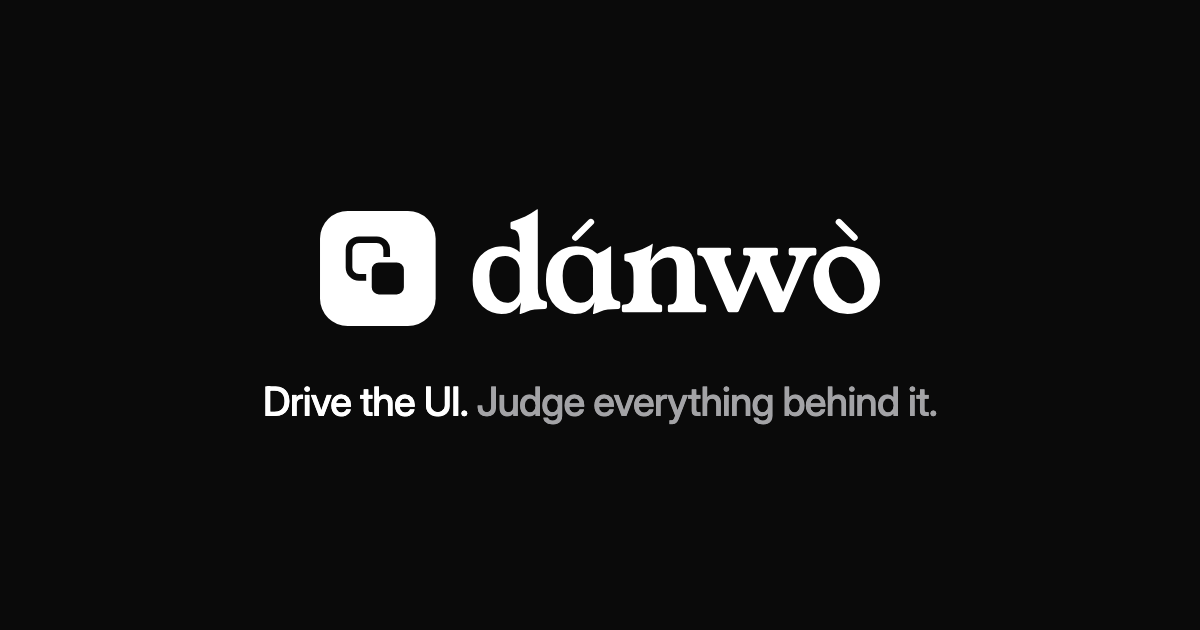
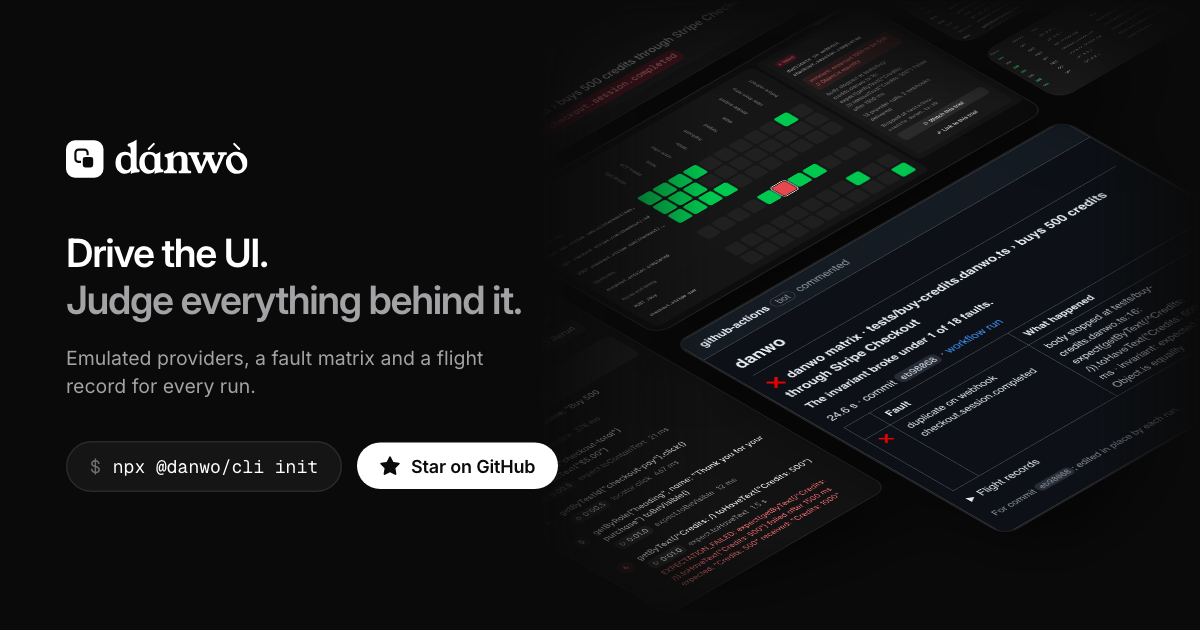
feat(brand): social cards from the README hero, with a Star on GitHub button
The hero page gains a card mode: the website's og.png (1200x630) and the
repository's social preview, github-social.png (1280x640), drawn from the
same tiles with a "Star on GitHub" button beside the command. render.ts
writes all four pictures, so the website's old og-image script goes.

diff --git a/brand/readme-hero/render.ts b/brand/readme-hero/render.ts
@@ -4,8 +4,11 @@
  * the shop to a temporary folder, runs its tests and a fault matrix with the shop's planted
  * duplicate-webhook bug, serves the dashboard on a free port and screenshots parts of it in both
  * colour schemes, then renders the pull request comment and the matrix's terminal output, and
- * finally screenshots `hero.html` with those tiles. Run it with `bun run readme-hero` (or
- * `node brand/readme-hero/render.ts`); pass `--reuse` to compose from the last run's tiles.
+ * finally screenshots `hero.html` with those tiles. It also draws the website's social card,
+ * `website/public/og.png` (1200×630), and the repository's social preview, `github-social.png`
+ * (1280×640), from the same page and tiles with a "Star on GitHub" button.
+ * Run it with `bun run readme-hero` (or `node brand/readme-hero/render.ts`); pass `--reuse` to
+ * compose from the last run's tiles.
  */
 import { type ChildProcess, spawn, spawnSync } from "node:child_process"
 import {
@@ -349,16 +352,36 @@ function terminalHtml(runs: Runs): string {
   return `<pre class="terminal"><span class="prompt">$</span> danwo matrix ${TEST_FILE}\n\n${lines.join("\n")}</pre>`
 }
 
-/** Composes the banner in `scheme` from the tiles and writes it beside this script. */
-async function compose(browser: Browser, scheme: Scheme): Promise<string> {
+/** Where each picture goes, and the size of the page it is drawn from. */
+const PICTURES = {
+  dark: { path: join(HERE, "hero-dark.png"), scheme: "dark", height: 400, scale: 2, card: "" },
+  light: { path: join(HERE, "hero-light.png"), scheme: "light", height: 400, scale: 2, card: "" },
+  og: {
+    path: join(REPO, "website", "public", "og.png"),
+    scheme: "dark",
+    height: 420,
+    scale: 1.5,
+    card: "&card=og",
+  },
+  github: {
+    path: join(HERE, "github-social.png"),
+    scheme: "dark",
+    height: 400,
+    scale: 1.6,
+    card: "&card=github",
+  },
+} as const
+
+/** Composes one picture from the tiles and writes it where `PICTURES` says. */
+async function compose(browser: Browser, picture: keyof typeof PICTURES): Promise<string> {
+  const { path, scheme, height, scale, card } = PICTURES[picture]
   const page = await browser.newPage({
-    viewport: { width: 800, height: 400 },
-    deviceScaleFactor: 2,
+    viewport: { width: 800, height },
+    deviceScaleFactor: scale,
   })
-  const path = join(HERE, `hero-${scheme}.png`)
 
   await page.goto(
-    `${pathToFileURL(join(HERE, "hero.html")).href}?theme=${scheme}&tiles=${pathToFileURL(TILES).href}`,
+    `${pathToFileURL(join(HERE, "hero.html")).href}?theme=${scheme}&tiles=${pathToFileURL(TILES).href}${card}`,
   )
   await page.evaluate(() => document.fonts.ready)
   await page.waitForLoadState("networkidle")
@@ -400,8 +423,8 @@ const browser = await chromium.launch()
 try {
   if (!(process.argv.includes("--reuse") && existsSync(TILES))) await captureTiles(browser)
 
-  for (const scheme of SCHEMES) {
-    const path = await compose(browser, scheme)
+  for (const picture of ["dark", "light", "og", "github"] as const) {
+    const path = await compose(browser, picture)
 
     optimise(path)
     console.log(`${path}: ${Math.round(statSync(path).size / 1024)} KB`)

diff --git a/brand/readme-hero/hero.html b/brand/readme-hero/hero.html
@@ -2,6 +2,9 @@
 <!--
   The README's hero banner. render.ts opens it as hero.html?theme=dark|light&tiles=<folder> and
   screenshots it; each tile is a screenshot of danwo's own UI that render.ts captured into <folder>.
+  With &card=og it is the website's social card instead: 800×420, so 1200×630 at 1.5×, with a
+  "Star on GitHub" button beside the command; &card=github keeps 800×400 for the repository's
+  social preview.
 -->
 <html lang="en" data-theme="dark">
   <head>
@@ -163,9 +166,18 @@
         color: var(--muted);
       }
 
-      .pill {
+      :root[data-card="og"] body {
+        height: 420px;
+      }
+
+      .actions {
         margin-top: 26px;
-        align-self: flex-start;
+        display: flex;
+        gap: 10px;
+        align-items: center;
+      }
+
+      .pill {
         padding: 8px 15px;
         border-radius: 999px;
         border: 1px solid var(--pill-border);
@@ -179,6 +191,29 @@
         font-weight: 400;
         color: var(--faint);
         margin-right: 8px;
+      }
+
+      .star {
+        display: none;
+        align-items: center;
+        gap: 7px;
+        padding: 8px 15px;
+        border-radius: 999px;
+        background: var(--text);
+        color: var(--bg);
+        font-size: 12px;
+        font-weight: 600;
+        letter-spacing: -0.01em;
+      }
+
+      :root[data-card] .star {
+        display: inline-flex;
+      }
+
+      .star svg {
+        width: 14px;
+        height: 14px;
+        fill: currentColor;
       }
 
       [data-only="dark"],
@@ -233,7 +268,17 @@
       />
       <h1>Drive the UI.<span>Judge everything behind it.</span></h1>
       <p>Emulated providers, a fault matrix and a flight record for every run.</p>
-      <div class="pill"><b>$</b>npx @danwo/cli init</div>
+      <div class="actions">
+        <div class="pill"><b>$</b>npx @danwo/cli init</div>
+        <div class="star">
+          <svg viewBox="0 0 16 16" aria-hidden="true">
+            <path
+              d="M8 .25a.75.75 0 0 1 .673.418l1.882 3.815 4.21.612a.75.75 0 0 1 .416 1.279l-3.046 2.97.719 4.192a.751.751 0 0 1-1.088.791L8 12.347l-3.766 1.98a.75.75 0 0 1-1.088-.79l.72-4.194L.818 6.374a.75.75 0 0 1 .416-1.28l4.21-.611L7.327.668A.75.75 0 0 1 8 .25Z"
+            />
+          </svg>
+          Star on GitHub
+        </div>
+      </div>
     </div>
 
     <script>
@@ -242,6 +287,8 @@
       const tiles = query.get("tiles") ?? "tiles"
 
       document.documentElement.dataset.theme = theme
+      const card = query.get("card")
+      if (card === "og" || card === "github") document.documentElement.dataset.card = card
       for (const img of document.querySelectorAll("[data-tile]"))
         img.src = `${tiles}/${theme}/${img.dataset.tile}.png`
     </script>

diff --git a/brand/readme-hero/README.md b/brand/readme-hero/README.md
@@ -3,6 +3,11 @@
 The banner at the top of the repository's README: `hero-dark.png` and `hero-light.png`, 1600×800
 (an 800×400 page at 2×). The README picks one with `prefers-color-scheme`.
 
+The same page and tiles also make the website's social card, `website/public/og.png` (1200×630,
+an 800×420 page at 1.5×), in the dark scheme with a "Star on GitHub" button beside the command, and the repository's social
+preview, `github-social.png` (1280×640, an 800×400 page at 1.6×), uploaded by hand under the
+repository's Settings → Social preview.
+
 Every tile on the right is a screenshot of danwo's own UI, made fresh from `examples/shop`:
 
 - the fault grid and the failed trial from a `danwo matrix` run, with the shop's planted
